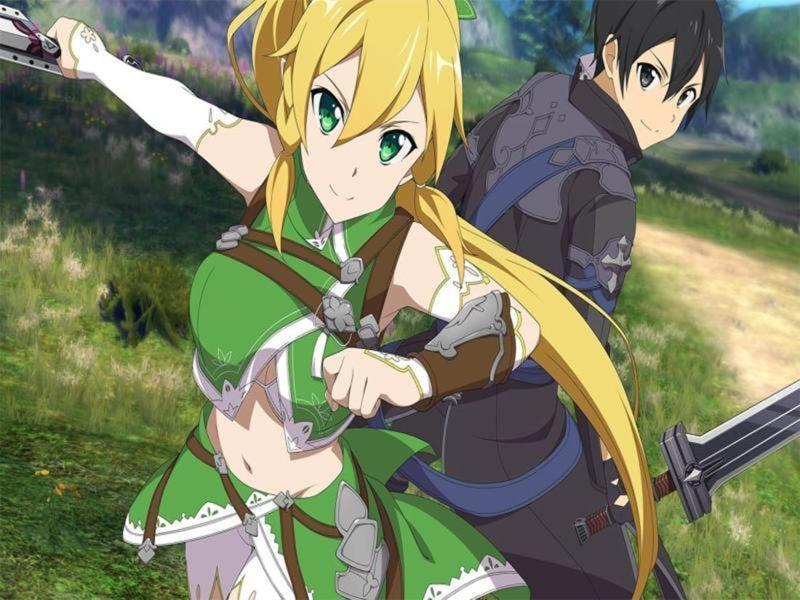
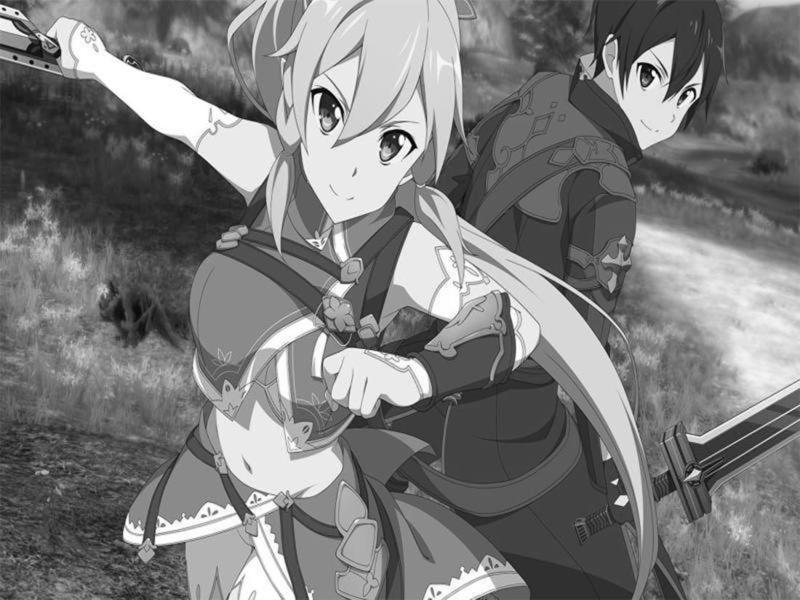
practice threading

diff --git a/PracticeResizeMakeWBimage.py b/PracticeResizeMakeWBimage.py
@@ -1,0 +1,57 @@
+import datetime
+import multiprocessing as mp
+from PIL import Image
+from queue import Empty
+
+
+def resize_image(image_paths, pipe: mp.Pipe, stop_event: mp.Event):  # queue):
+    for image_path in image_paths:
+        image_rs = Image.open(image_path)
+        image_rs = image_rs.resize((800, 600))
+        image_rs.save(image_path)
+        # queue.put((image_path, image_rs))
+        pipe.send(image_path)
+    stop_event.set()
+
+
+def change_color(pipe: mp.Pipe, stop_event: mp.Event):  # queue):
+    # while True:
+    while not stop_event.is_set():
+        # try:
+        # image_path, image_bw = queue.get(timeout=5)
+        image_path = pipe.recv()
+        # except Empty as e:
+        #     break
+        image_bw = Image.open(image_path)
+        image_bw = image_bw.convert('L')
+        image_bw.save(image_path)
+
+
+if __name__ == '__main__':
+    data = []
+    # queue = mp.Queue()
+    conn1, conn2 = mp.Pipe()
+    stop_event = mp.Event()
+    for image in range(1, 11):
+        if (image < 3) or (image > 7):
+            data.append(f'./images/img_{image}.jpg')
+        else:
+            data.append(f'./images/img_{image}.png')
+
+    resize_proccess = mp.Process(target=resize_image, args=(data, conn1, stop_event))
+    change_proccess = mp.Process(target=change_color, args=(conn2, stop_event))
+
+    start_time = datetime.datetime.now()
+
+    resize_proccess.start()
+    change_proccess.start()
+
+    resize_proccess.join()
+    change_proccess.join()
+
+    end_time = datetime.datetime.now()
+    print(f'Time: {end_time - start_time}')
+    # Queue
+    # Time: 0:00:05.336954
+    # Pipe
+    # Time: 0:00:08.340927

diff --git a/ThreadingServesBinaryJazzThreads.py b/ThreadingServesBinaryJazzThreads.py
@@ -1,0 +1,54 @@
+import pprint
+import queue
+import requests
+from threading import Thread
+
+# www.example.com/search?q=some_query&type=music&genre=classic
+
+ACCESS_TOKEN = 'Zx9ft7WLT3X6zKOTZWoI3_Tn_hy-O8lJk_v1O1JBuYYOwIkvGKsMG-D43vcfX5al'
+RANDOM_GENRE_API_URL = 'https://binaryjazz.us/wp-json/genrenator/v1/genre/'
+GENIUS_API_URL = 'https://api.genius.com/search'
+GENIUS_URL = 'https://genius.com'
+all_songs = []
+class GetGenre(Thread):
+    def __init__(self, queue):
+        self.queue = queue
+        super().__init__()
+
+    def run(self):
+        genre = requests.get(RANDOM_GENRE_API_URL).json()
+        self.queue.put(genre)
+class Genius(Thread):
+    def __init__(self, queue):
+        self.queue = queue
+        super().__init__()
+
+    def run(self):
+        genre = self.queue.get()
+        data = requests.get(GENIUS_API_URL, params={'access_token': ACCESS_TOKEN, 'q': genre})
+        data = data.json()
+        try:
+            song_id = data['response']['hits'][0]['result']['api_path']
+            all_songs.append(f'{GENIUS_URL}{song_id}/apple_music_player')
+        except IndexError as e:
+            pass
+
+
+queue = queue.Queue()
+genre_list = []
+genius_list = []
+for _ in range(10):
+    t = GetGenre(queue)
+    t.start()
+    genre_list.append(t)
+
+for _ in range(10):
+    t = Genius(queue)
+    t.start()
+    genius_list.append(t)
+
+for t in genius_list:
+    t.join()
+
+print(all_songs)
+print(len(all_songs))

diff --git a/ThreadingPractice.py b/ThreadingPractice.py
@@ -1,0 +1,47 @@
+import random
+import time
+from threading import Thread
+from queue import Queue
+
+
+class Bun(Thread):
+    def __init__(self, queue: Queue):
+        self.queue = queue
+        super().__init__()
+
+    def run(self):
+        while True:
+            time.sleep(3)
+            if random.random() > 0.5:
+                self.queue.put('burnt bun')
+            else:
+                self.queue.put('normal bun')
+
+
+class Patty(Thread):
+
+    def __init__(self, queue, count):
+        self.queue = queue
+        self.count = count
+        super().__init__()
+
+    def run(self):
+        while self.count:
+            print(f'Queue size: {self.queue.qsize()}')
+            bun = self.queue.get(timeout=5)
+            if bun == 'normal bun':
+                time.sleep(0.1)
+                self.count -= 1
+            print(f'We have {self.count} buns')
+
+
+queue = Queue(maxsize=40)
+
+t1 = Bun(queue)
+t2 = Patty(queue, 20)
+
+t1.start()
+t2.start()
+
+t1.join()
+t2.join()

diff --git a/ThreadingServesBinaryJazz.py b/ThreadingServesBinaryJazz.py
@@ -1,0 +1,19 @@
+import pprint
+
+import requests
+from threading import Thread
+
+# www.example.com/search?q=some_query&type=music&genre=classic
+
+ACCESS_TOKEN = 'Zx9ft7WLT3X6zKOTZWoI3_Tn_hy-O8lJk_v1O1JBuYYOwIkvGKsMG-D43vcfX5al'
+RANDOM_GENRE_API_URL = 'https://binaryjazz.us/wp-json/genrenator/v1/genre/'
+GENIUS_API_URL = 'https://api.genius.com/search'
+GENIUS_URL = 'https://genius.com'
+
+genre = requests.get(RANDOM_GENRE_API_URL).json()
+
+data = requests.get(GENIUS_API_URL, params={'access': ACCESS_TOKEN, 'q': genre})
+pprint.pprint(data.json())
+data = data.json()
+song_id = data['response']['hits'][0]['result']['api_path']
+print(f'{GENIUS_URL}{song_id}/apple_music_player')
